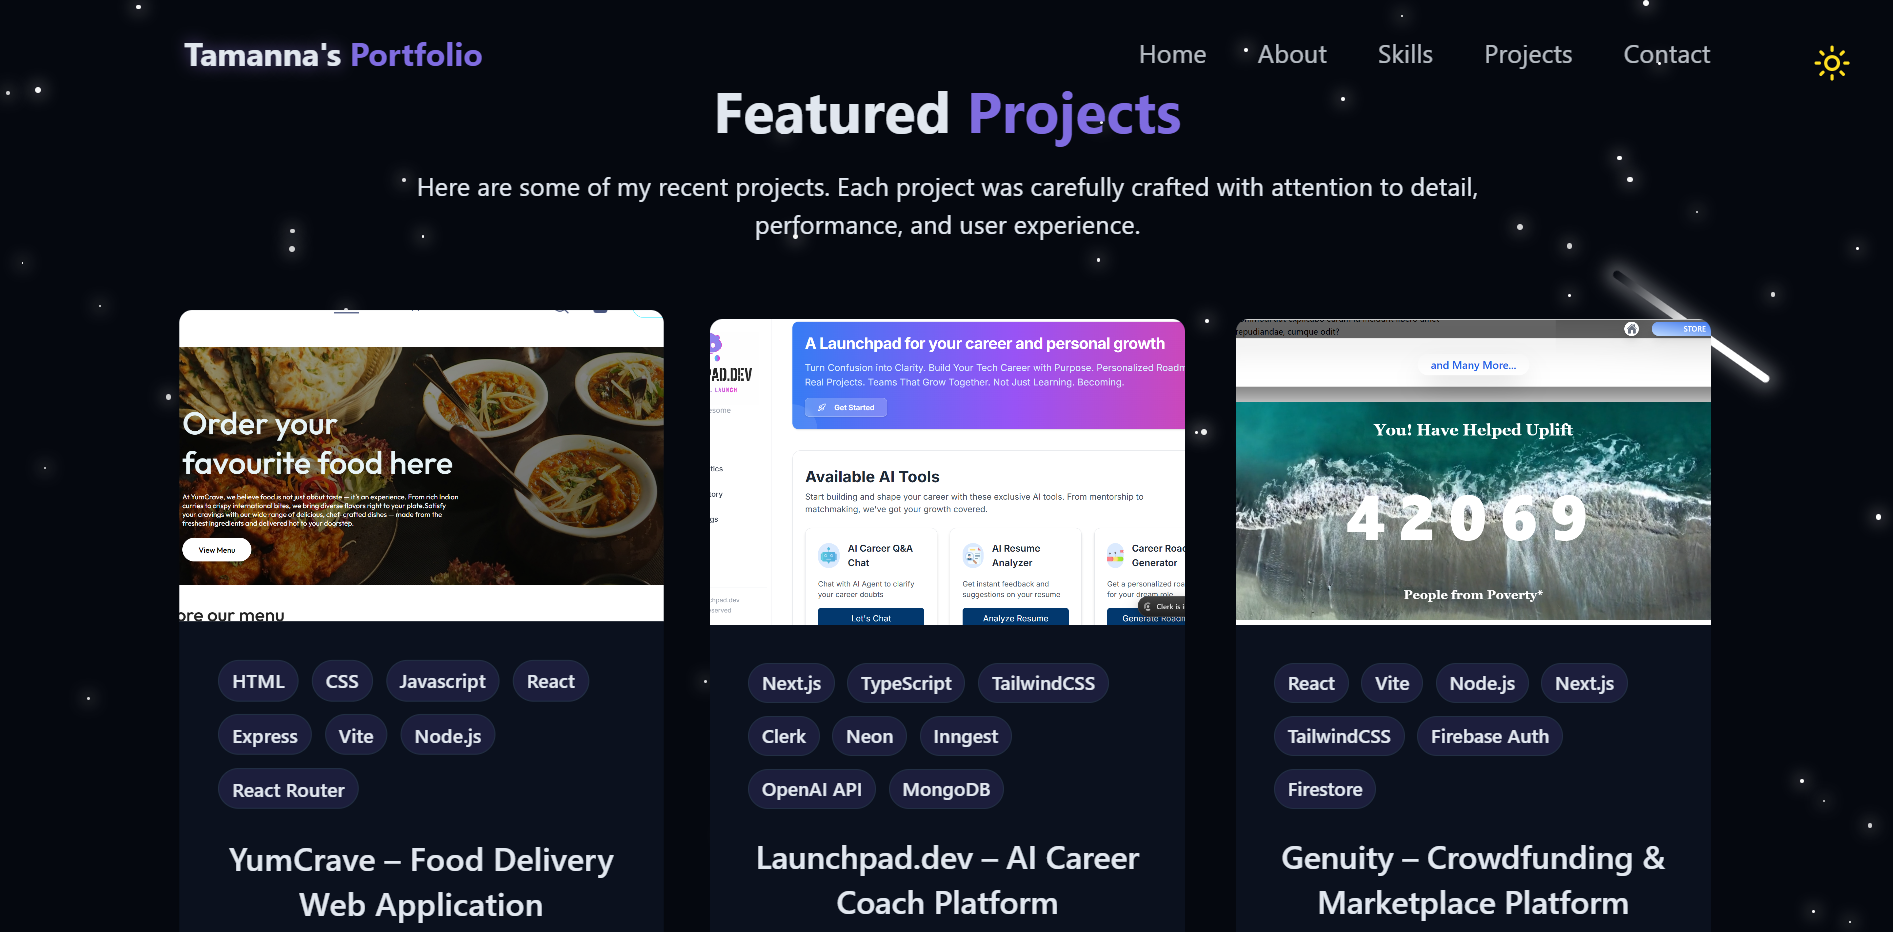
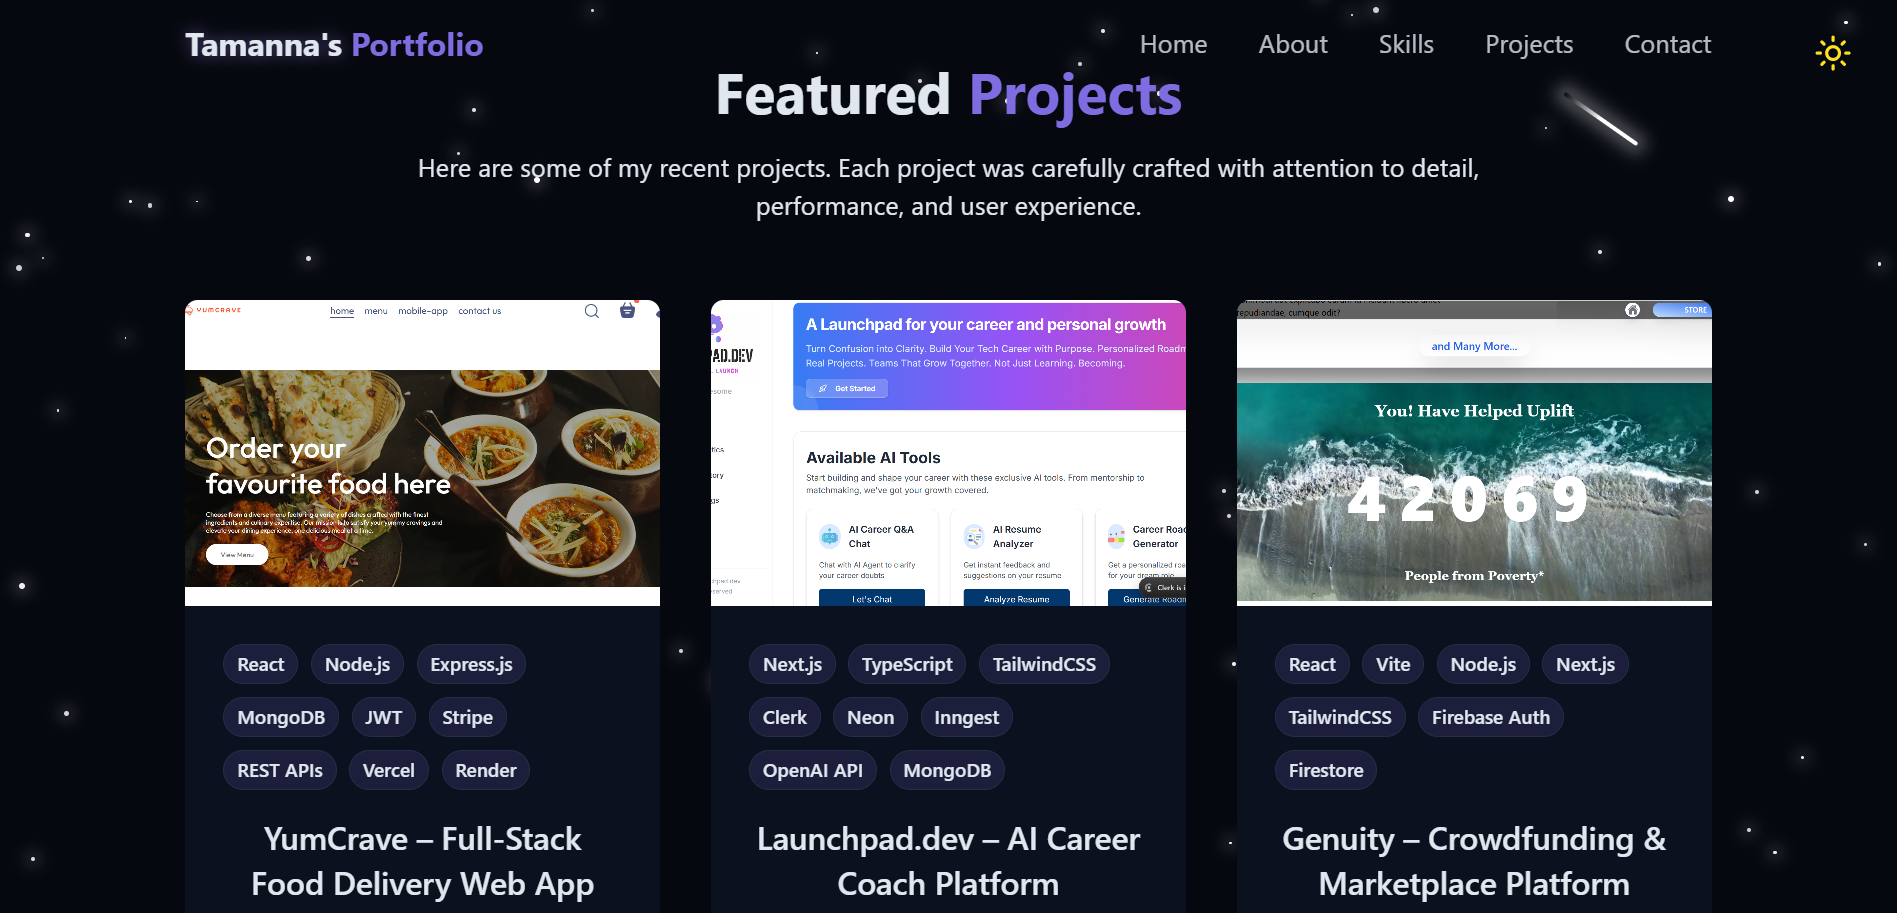
added url

diff --git a/src/components/ProjectsSection.jsx b/src/components/ProjectsSection.jsx
@@ -2,15 +2,26 @@ import { ArrowRight,ExternalLink, Github } from "lucide-react";
 
 const projects = [
   {
-    id: 1,
-    title: "YumCrave – Food Delivery Web Application",
-    description:
-      "A full-stack food delivery web application that allows users to browse restaurants, add items to cart, and place orders. Focused on clean UI, smooth user experience, and scalable frontend architecture.",
-    image: "/projects/project1.png",
-    tags: ["HTML","CSS", "Javascript", "React", "Express", "Vite", "Node.js","React Router"],
-    demoUrl: "#",
-    githubUrl: "https://github.com/tamannaakapoor/YumCrave",
-  },
+  id: 1,
+  title: "YumCrave – Full-Stack Food Delivery Web App",
+  description:
+    "A full-stack food delivery web application built with the MERN stack, featuring user authentication, cart management, Stripe-based payments, order tracking, and an admin dashboard for product and order management.",
+  image: "/projects/project1.png",
+  tags: [
+    "React",
+    "Node.js",
+    "Express.js",
+    "MongoDB",
+    "JWT",
+    "Stripe",
+    "REST APIs",
+    "Vercel",
+    "Render"
+  ],
+  demoUrl: "https://yumcrave-food-delivery.vercel.app",
+  githubUrl: "https://github.com/tamannaakapoor/YumCrave-Food-Delivery",
+}
+,
   {
     id: 2,
     title: "Launchpad.dev – AI Career Coach Platform",
